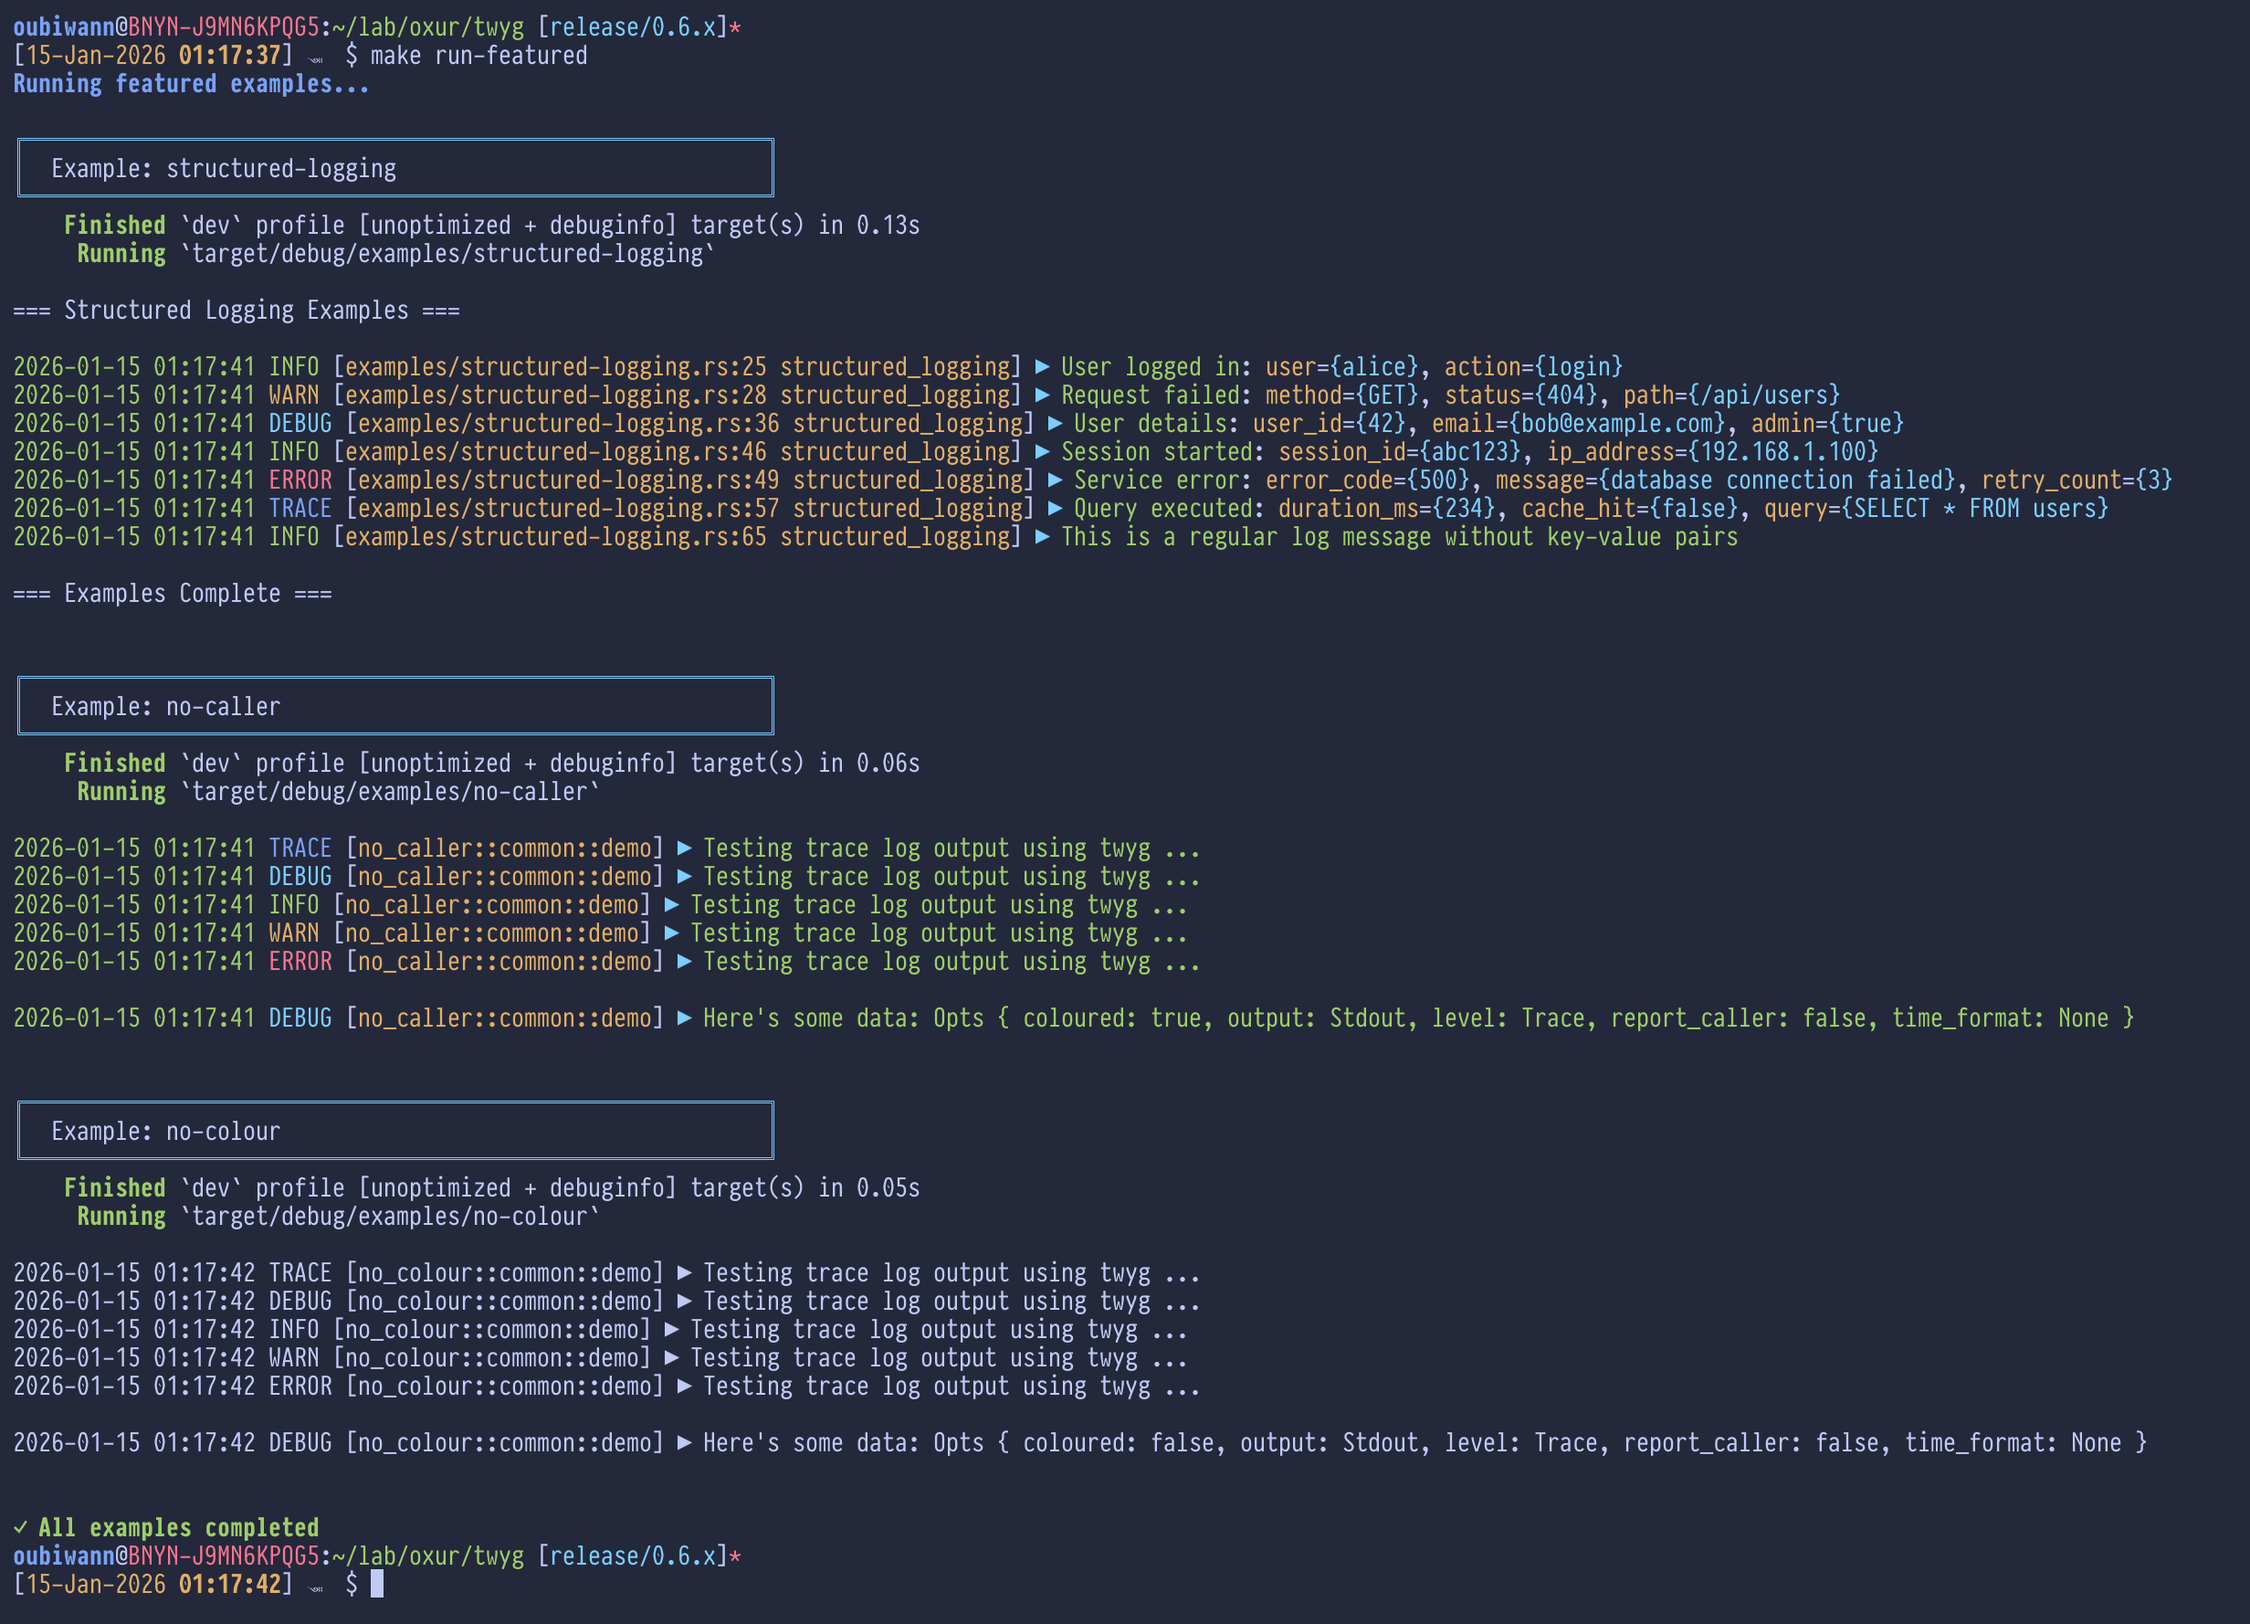
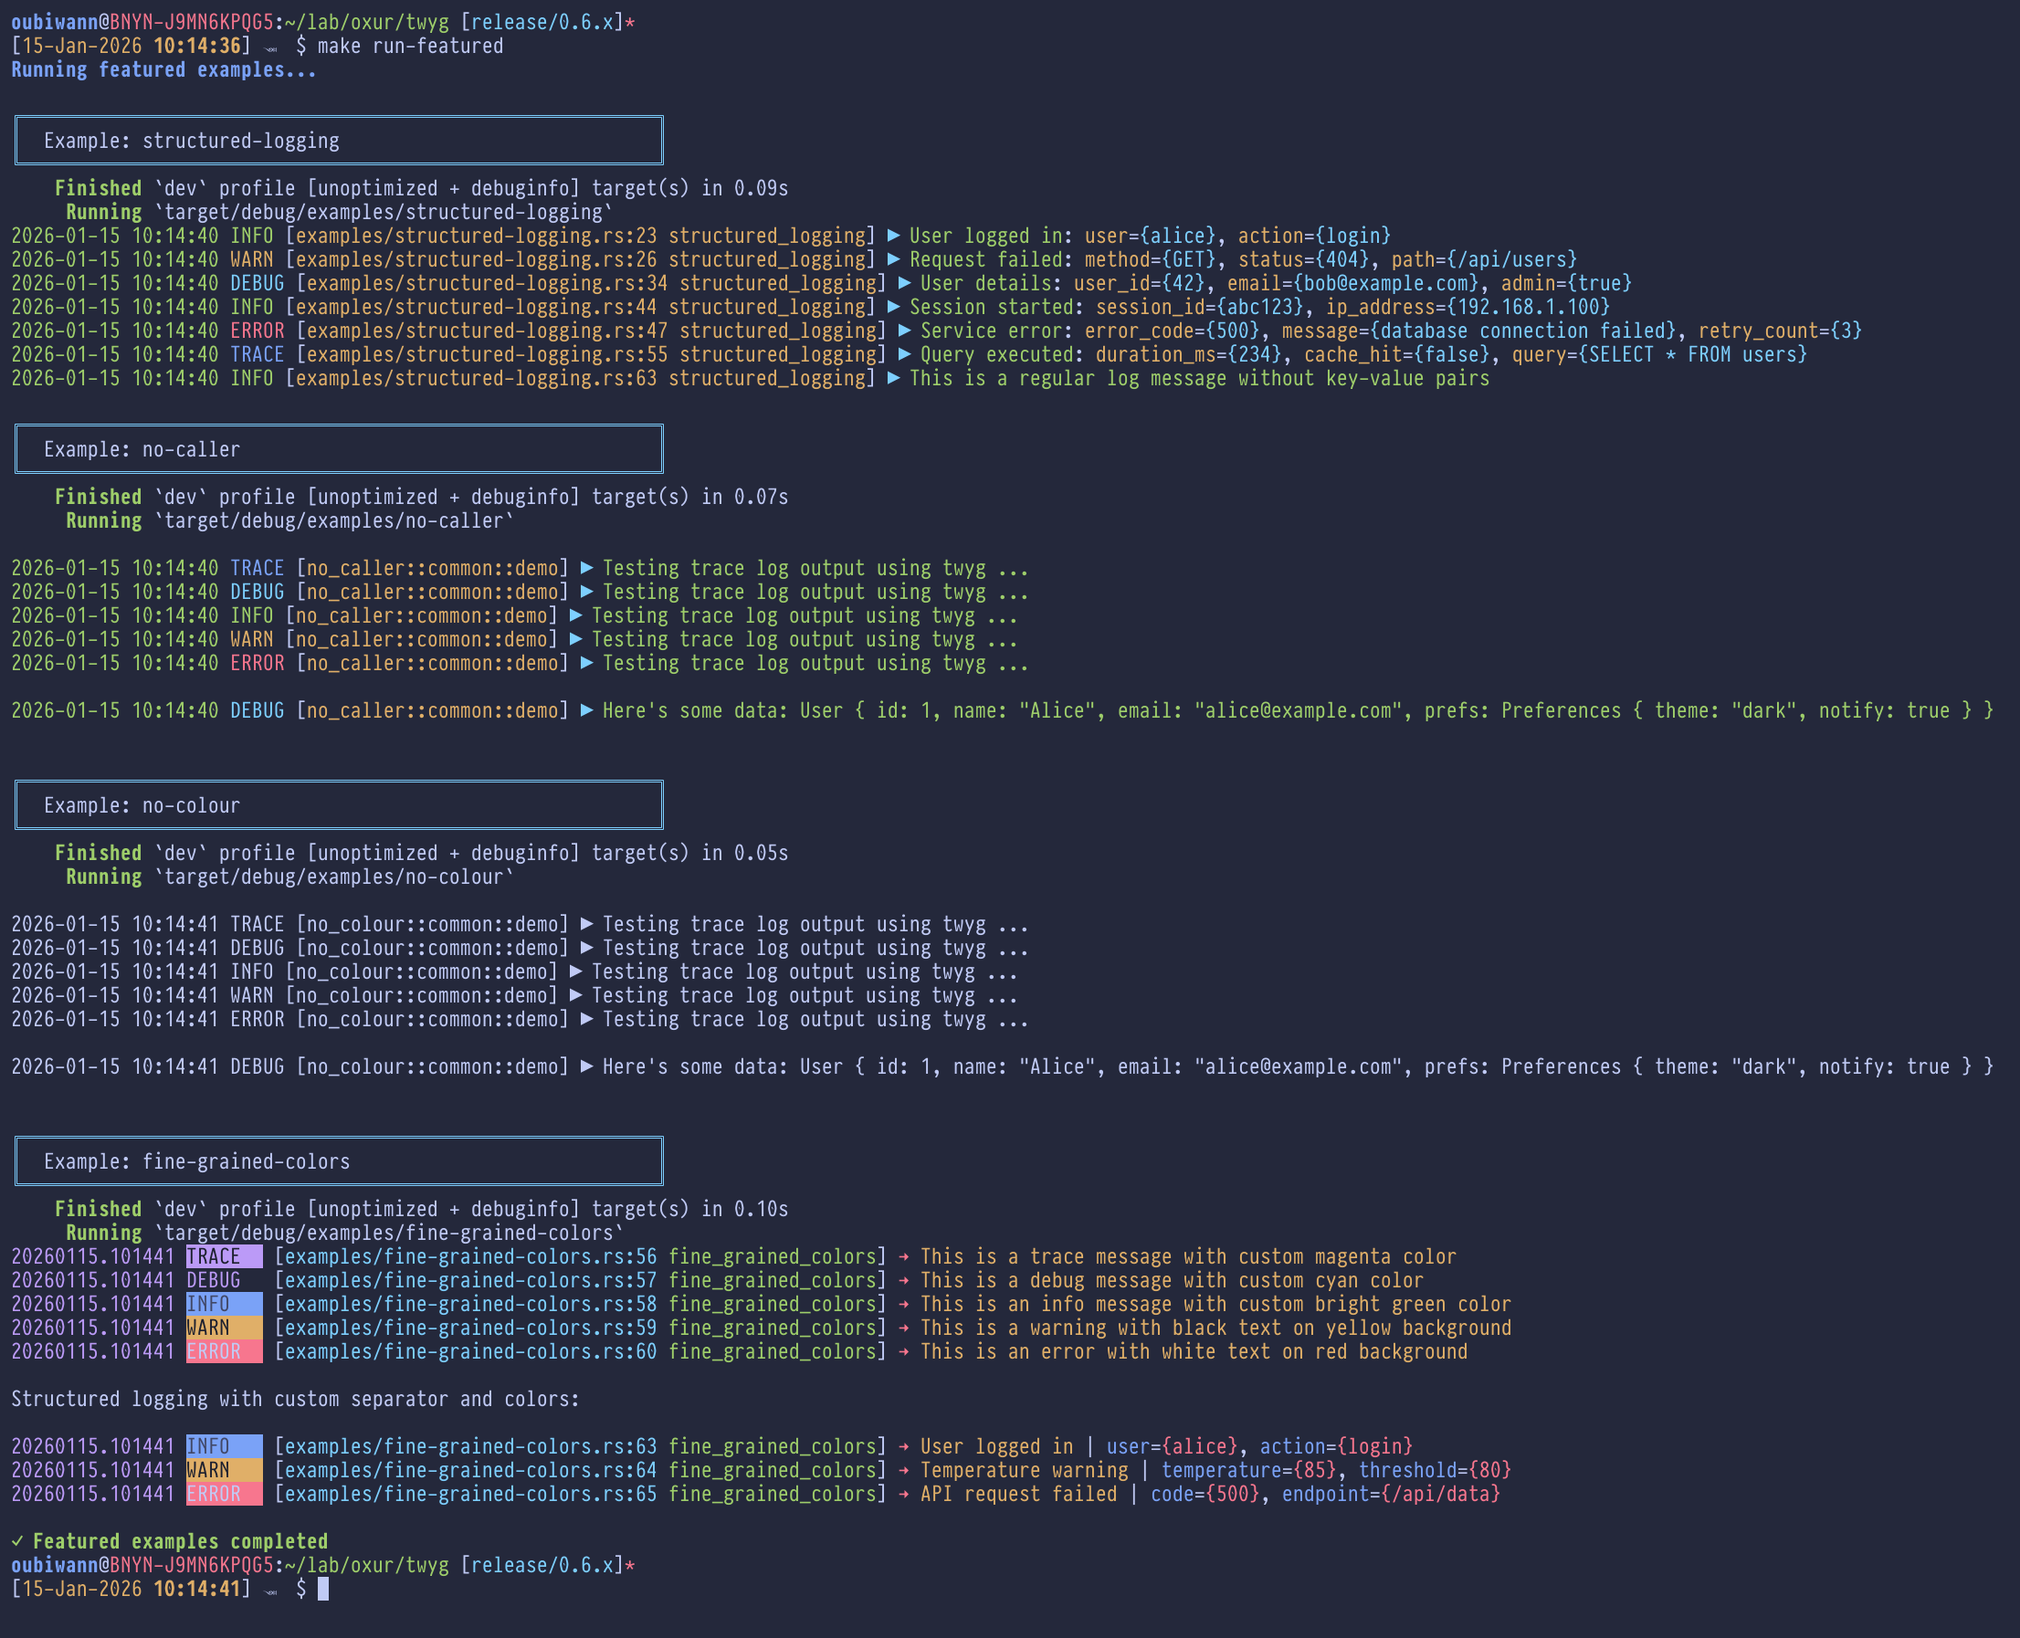
Example tweaks.

Changed region(s): [[0.0, 0.0, 0.967, 0.9899]]

diff --git a/examples/fine-grained-colors.rs b/examples/fine-grained-colors.rs
@@ -14,28 +14,28 @@ fn main() {
     let mut colors = Colors::default();
 
     // Bright cyan timestamp (instead of default green)
-    colors.timestamp = Some(Color::fg(ColorAttribute::HiCyan));
+    colors.timestamp = Some(Color::fg(ColorAttribute::HiMagenta));
 
     // Dramatically different level colors with backgrounds
-    colors.level_error = Some(Color::new(ColorAttribute::HiWhite, ColorAttribute::Red));
+    colors.level_error = Some(Color::new(ColorAttribute::HiWhite, ColorAttribute::HiRed));
     colors.level_warn = Some(Color::new(ColorAttribute::Black, ColorAttribute::HiYellow));
-    colors.level_info = Some(Color::new(ColorAttribute::HiWhite, ColorAttribute::Blue));
+    colors.level_info = Some(Color::new(ColorAttribute::HiBlack, ColorAttribute::Blue));
     colors.level_debug = Some(Color::fg(ColorAttribute::HiMagenta));
-    colors.level_trace = Some(Color::new(ColorAttribute::Yellow, ColorAttribute::Magenta));
+    colors.level_trace = Some(Color::new(ColorAttribute::Black, ColorAttribute::Magenta));
 
     // Bright white message text (highly visible)
-    colors.message = Some(Color::fg(ColorAttribute::HiWhite));
+    colors.message = Some(Color::fg(ColorAttribute::HiYellow));
 
     // Yellow arrow separator (warm accent)
-    colors.arrow = Some(Color::fg(ColorAttribute::Yellow));
+    colors.arrow = Some(Color::fg(ColorAttribute::HiRed));
 
     // Caller information in contrasting colors
     colors.caller_file = Some(Color::fg(ColorAttribute::Cyan));
     colors.target = Some(Color::fg(ColorAttribute::HiGreen));
 
     // Structured logging with vibrant colors
-    colors.attr_key = Some(Color::fg(ColorAttribute::Cyan));
-    colors.attr_value = Some(Color::fg(ColorAttribute::HiGreen));
+    colors.attr_key = Some(Color::fg(ColorAttribute::Blue));
+    colors.attr_value = Some(Color::fg(ColorAttribute::Red));
 
     let opts = OptsBuilder::new()
         .coloured(true)
@@ -53,9 +53,6 @@ fn main() {
 
     twyg::setup(opts).unwrap();
 
-    println!("\n=== Fine-Grained Colors Example ===\n");
-    println!("Demonstrating custom colors, padding, and separators:\n");
-
     log::trace!("This is a trace message with custom magenta color");
     log::debug!("This is a debug message with custom cyan color");
     log::info!("This is an info message with custom bright green color");
@@ -66,6 +63,4 @@ fn main() {
     log::info!(user = "alice", action = "login"; "User logged in");
     log::warn!(temperature = 85, threshold = 80; "Temperature warning");
     log::error!(code = 500, endpoint = "/api/data"; "API request failed");
-
-    println!("\n=== Example Complete ===\n");
 }

diff --git a/src/opts.rs b/src/opts.rs
@@ -191,7 +191,7 @@ impl Opts {
     }
 
     /// Returns the time format string (deprecated, for backward compatibility).
-    #[deprecated(since = "0.7.0", note = "Use timestamp_format() instead")]
+    #[deprecated(since = "0.6.1", note = "Use timestamp_format() instead")]
     pub fn time_format(&self) -> Option<&str> {
         match &self.timestamp_format {
             TSFormat::Custom(s) => Some(s.as_str()),
@@ -346,7 +346,7 @@ impl OptsBuilder {
     ///     .build()
     ///     .unwrap();
     /// ```
-    #[deprecated(since = "0.7.0", note = "Use timestamp_format() instead")]
+    #[deprecated(since = "0.6.1", note = "Use timestamp_format() instead")]
     pub fn time_format(mut self, format: impl Into<String>) -> Self {
         self.timestamp_format = TSFormat::Custom(format.into());
         self
